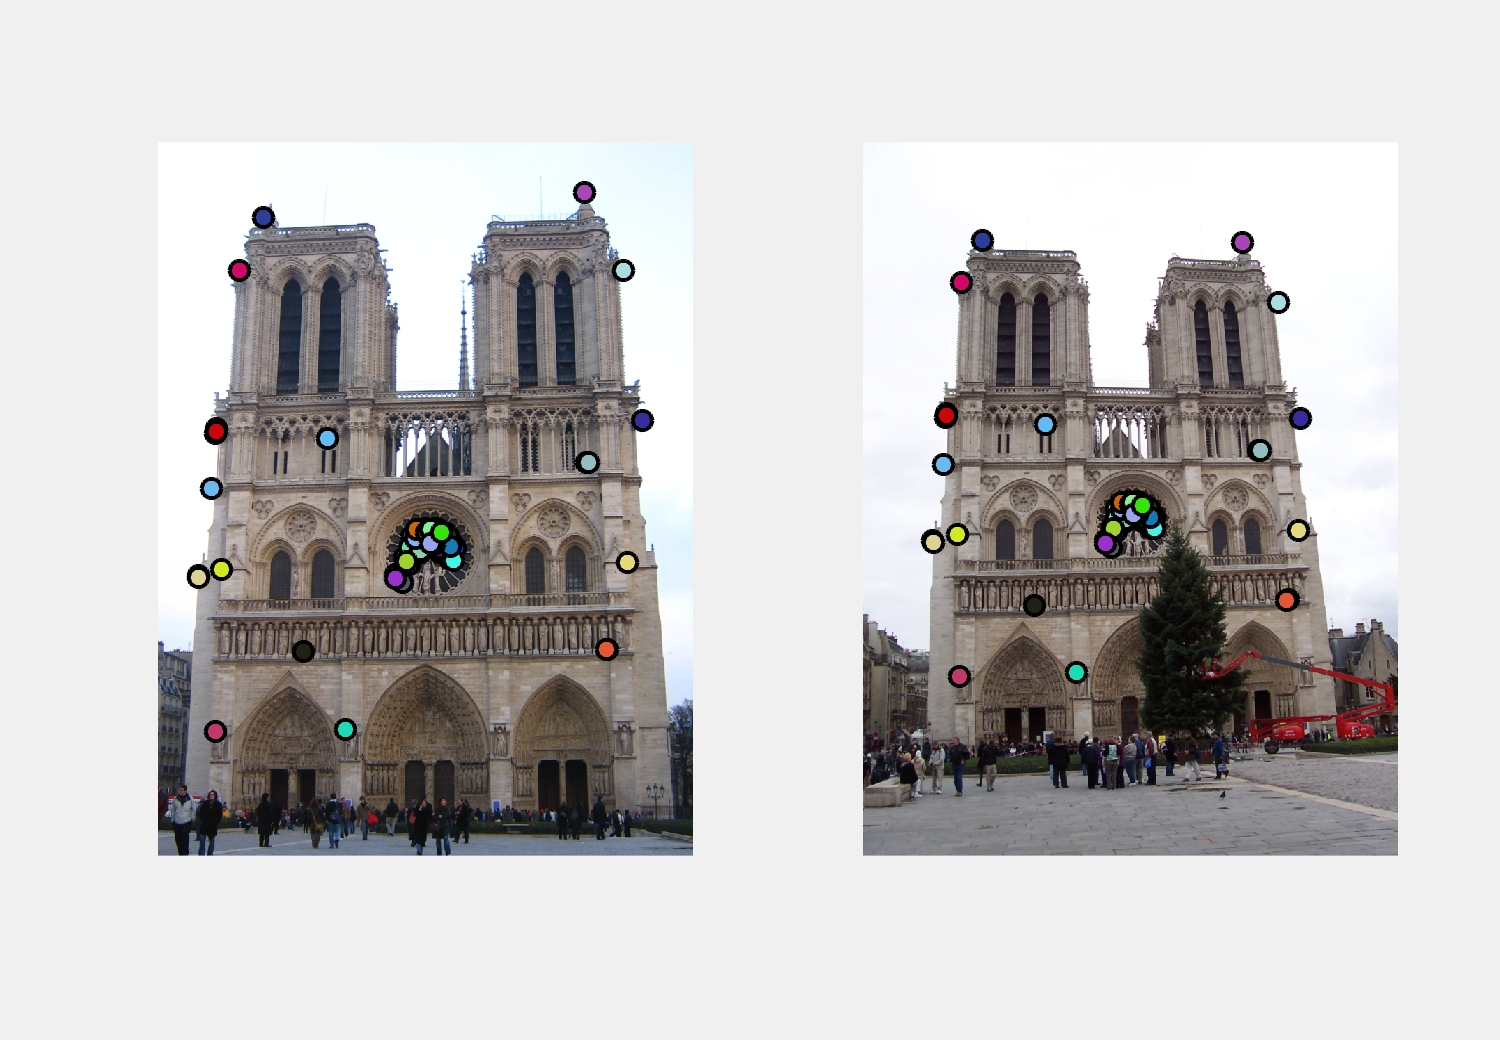
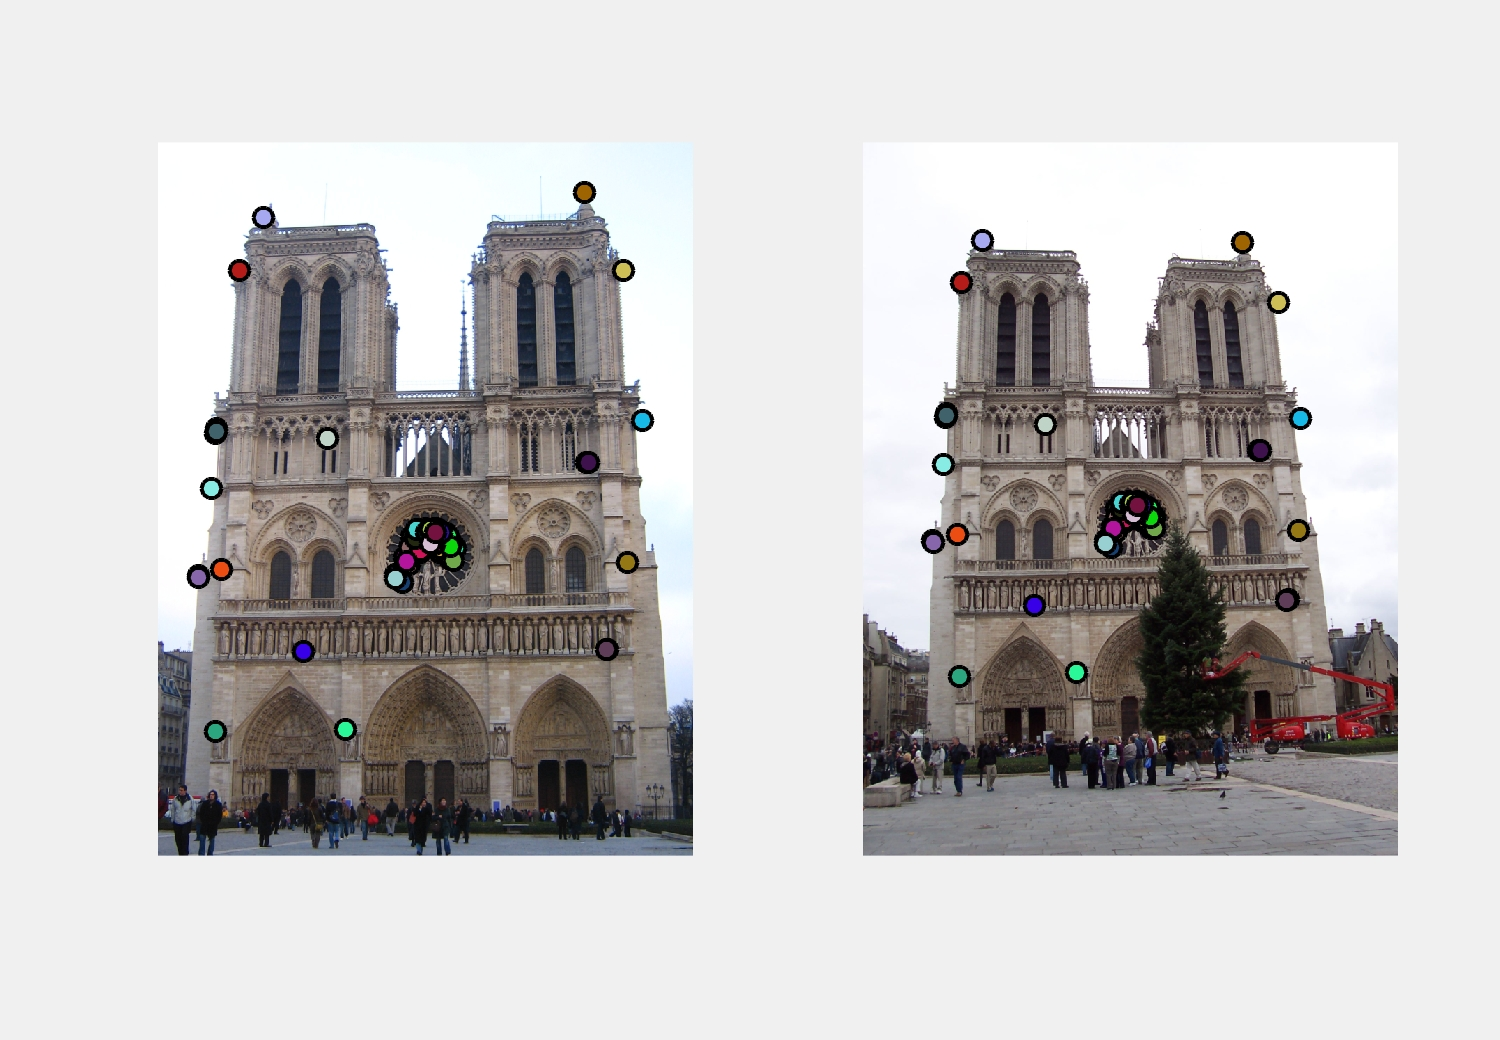
67/0 imis

diff --git a/hw2files/code/match_features.m b/hw2files/code/match_features.m
@@ -21,7 +21,7 @@ function [matches, confidences] = match_features(features1, features2)
 % section 4.1.3 of Szeliski. 
 
 % Placeholder that you can delete. Random matches and confidences
-threshold = 0.66;
+threshold = 0.665;
 distances = pdist2(features1, features2, 'euclidean');
 [distances_sorted, indices] = sort(distances, 2);
 % Sort the matches so that the most confident onces are at the top of the
